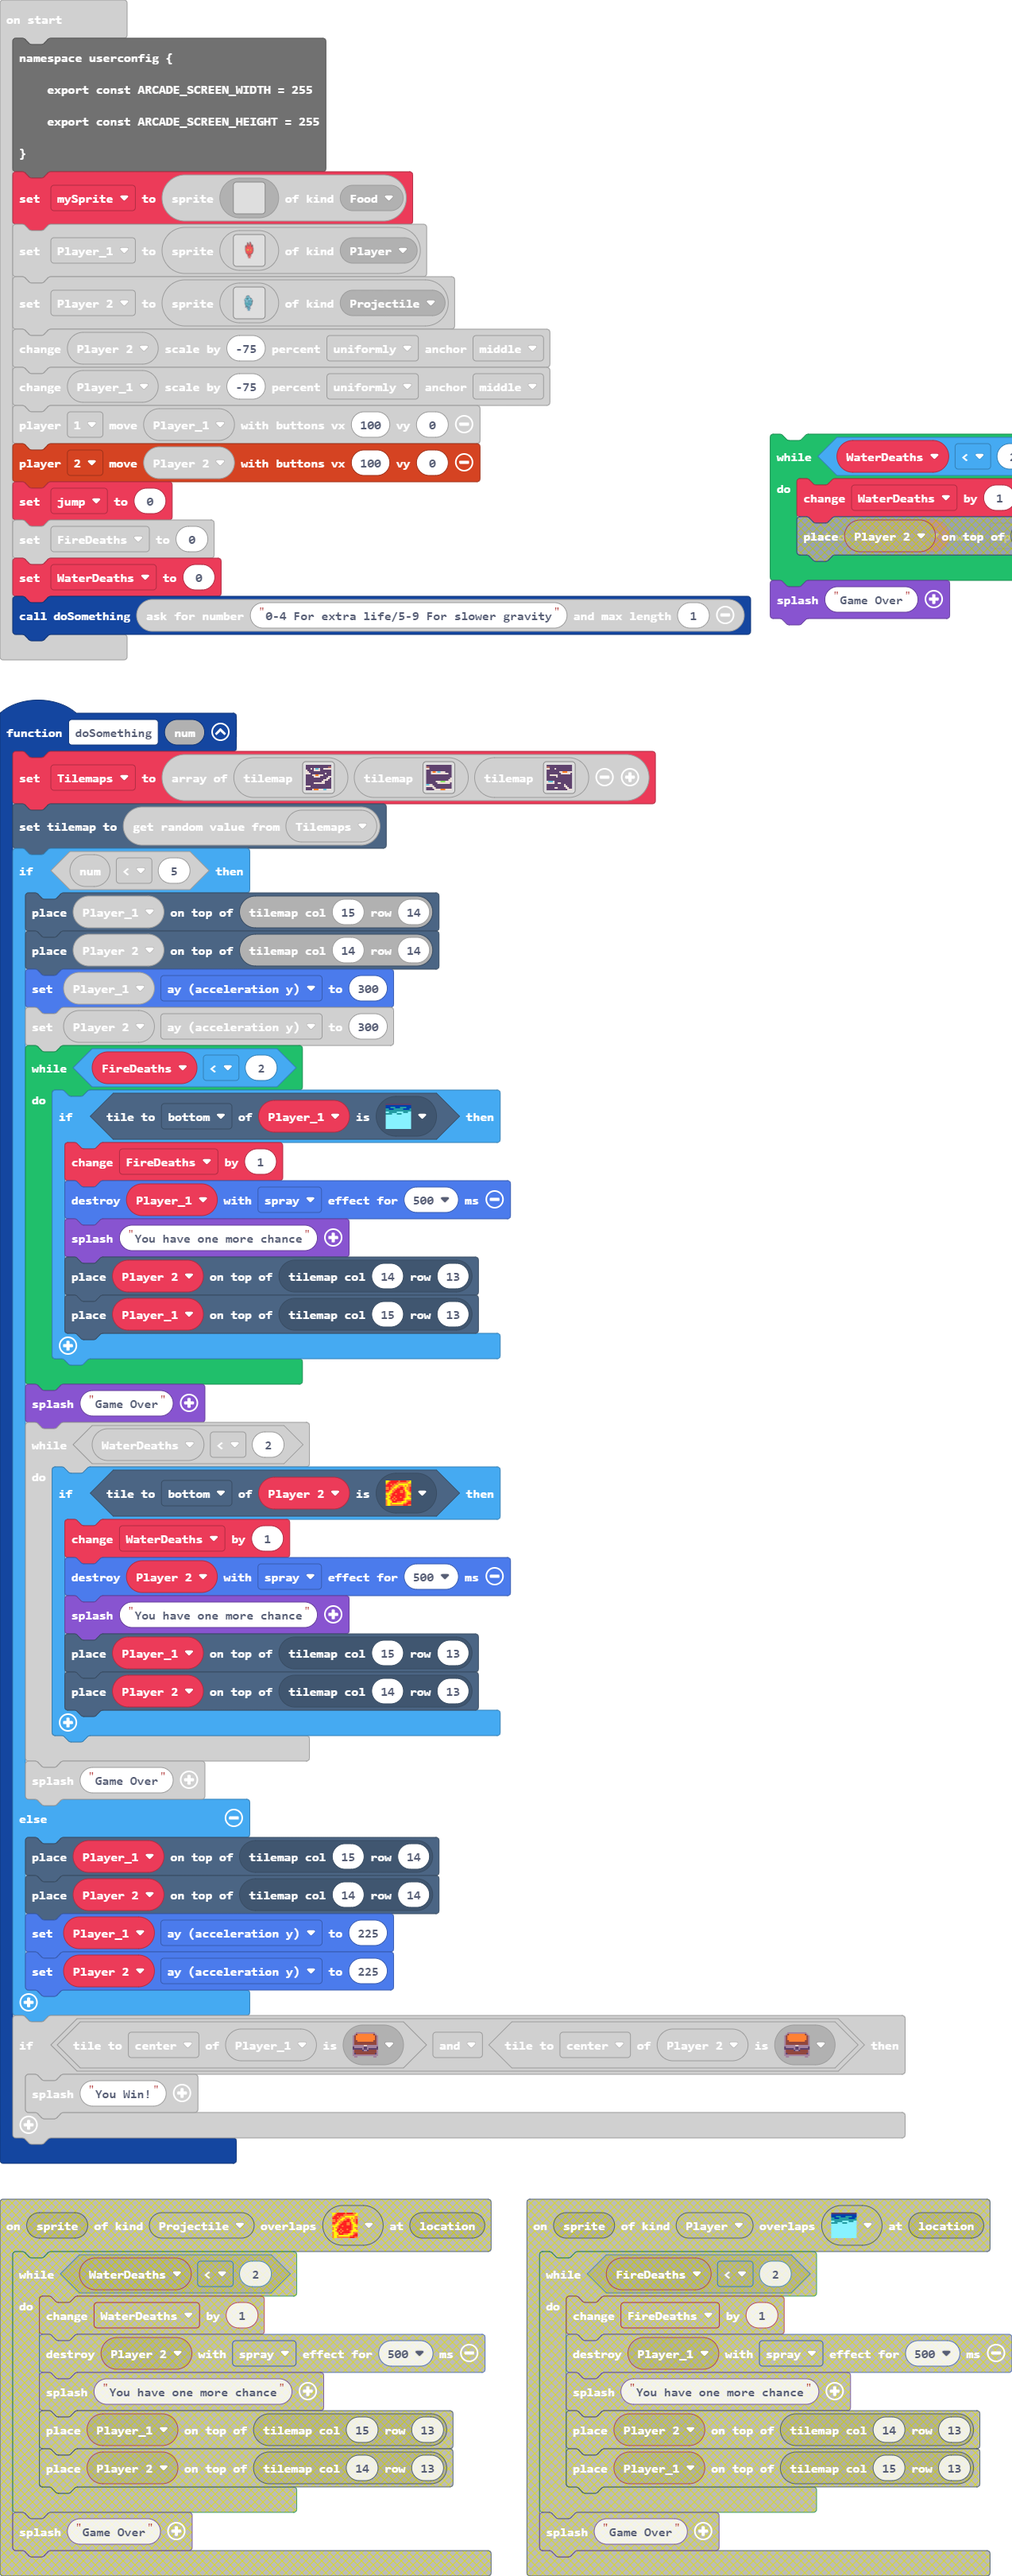
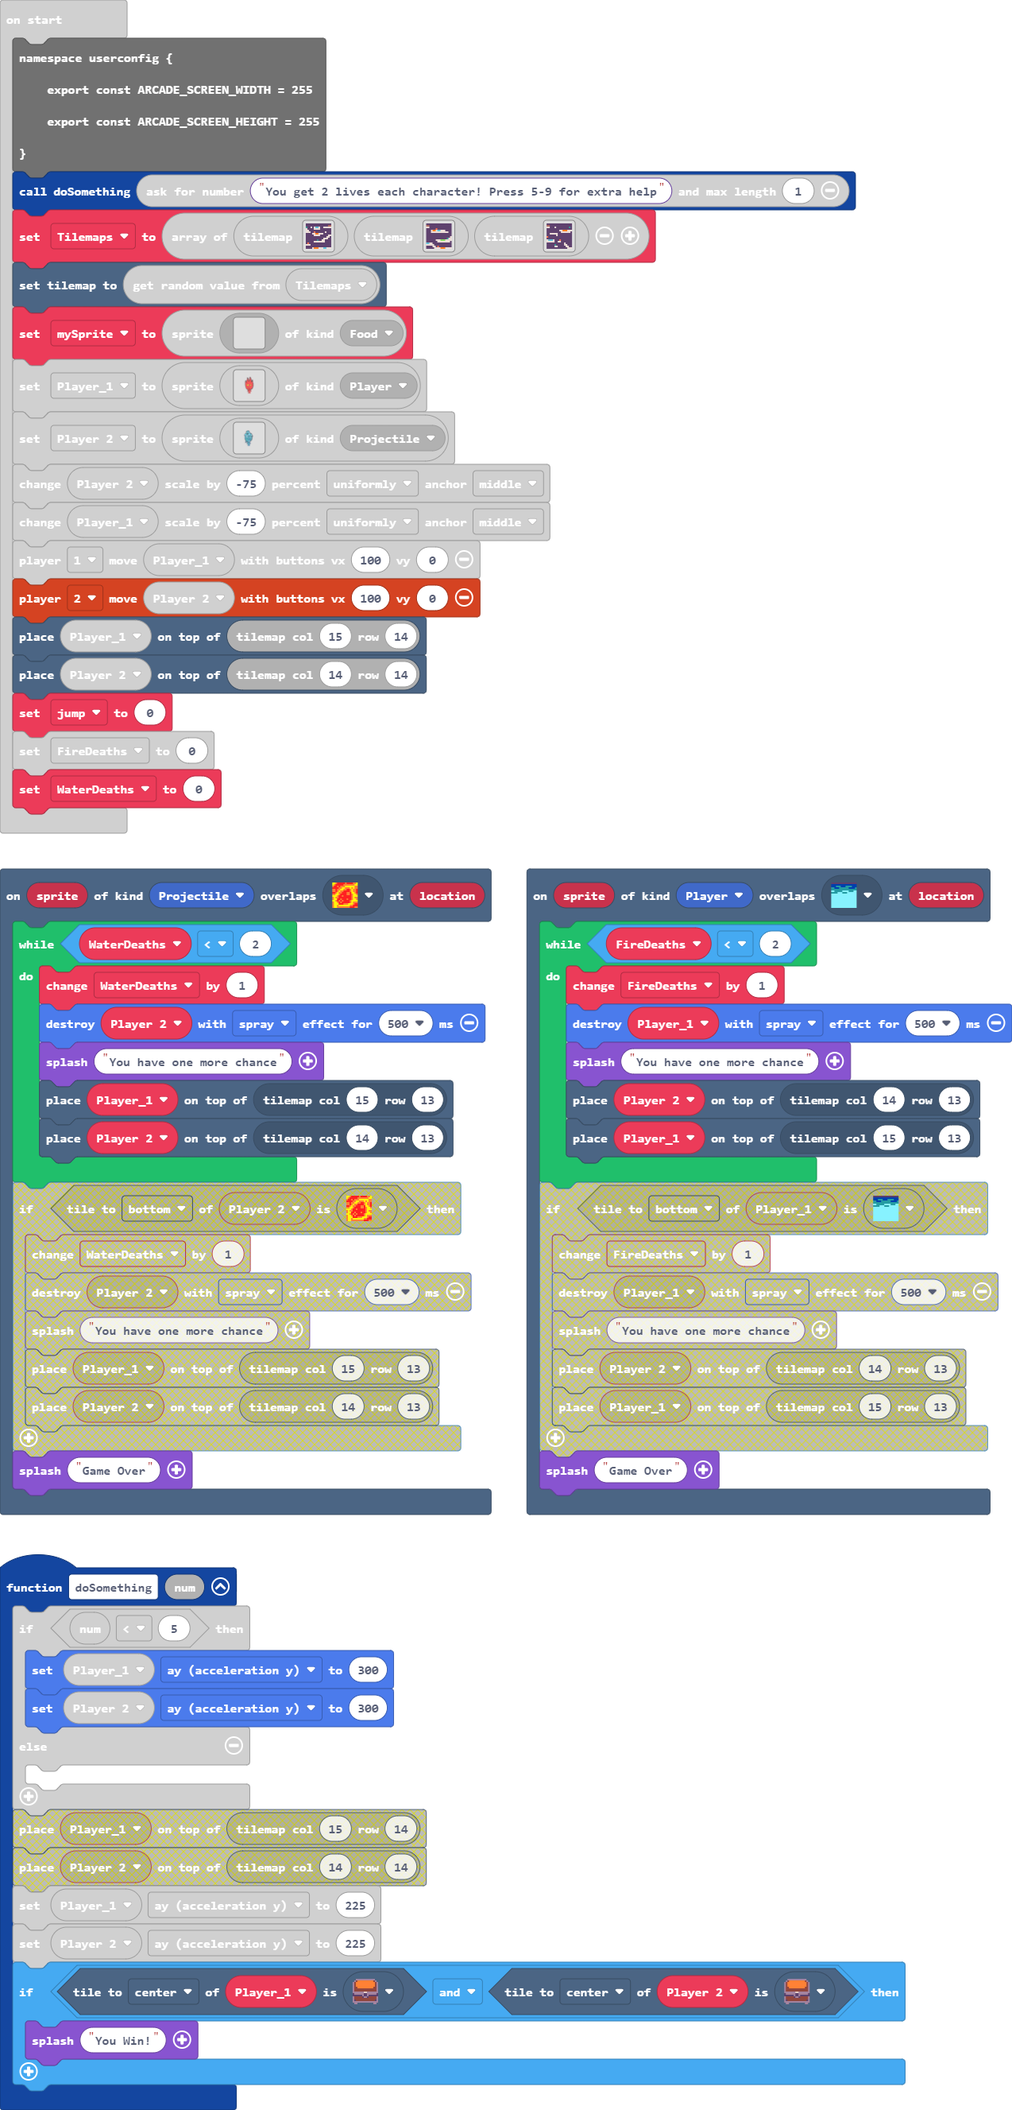
Update main.blocks, main.ts, tilemap.g.jres, tilemap.g.ts

diff --git a/tilemap.g.ts b/tilemap.g.ts
@@ -185,63 +185,6 @@ namespace myTiles {
 . . . . . . . . . . . . . . . . 
 . . . . . . . . . . . . . . . . 
 `, [], -Infinity);
-            case "level11":
-            case "level11":return tiles.createTilemap(hex`1000100001010101010101010101010101010101060601010101010101010101010101010202030301020101010101010101010101010101010101010101010101010101010101010101010102020404040202020101010101010101010202020202020101010202020202010101010101010101010103030101020101010101010101010101010101010101010101010101010101010101010101010101010101010101020505050201010101010101010101010202020202010102020101010101010101010101010101030101010201010101010101010101010101010102020101010101010101020201010101010202010101010101010101010101010101020202`, img`
-. . . . . . . . . . . . . . . . 
-. . . . . . . . . . . . . . . . 
-2 2 . . . 2 . . . . . . . . . . 
-. . . . . . . . . . . . . . . . 
-. . . . . . . . 2 2 . . . 2 2 2 
-. . . . . . . . . 2 2 2 2 2 2 . 
-. . 2 2 2 2 2 . . . . . . . . . 
-. . . . . . 2 . . . . . . . . . 
-. . . . . . . . . . . . . . . . 
-. . . . . . . . . . . . . . . . 
-2 . . . 2 . . . . . . . . . . . 
-2 2 2 2 2 . . 2 2 . . . . . . . 
-. . . . . . . . . . . 2 . . . . 
-. . . . . . . . . . . 2 2 . . . 
-. . . . . 2 2 . . . . . 2 2 . . 
-. . . . . . . . . . . . . 2 2 2 
-`, [myTiles.transparency16,myTiles.tile1,sprites.builtin.brick,sprites.dungeon.darkGroundCenter,sprites.dungeon.hazardLava0,sprites.dungeon.hazardWater,sprites.dungeon.chestClosed], TileScale.Sixteen);
-            case "level3":
-            case "level3":return tiles.createTilemap(hex`1000100002020201010101010101010101010101060602010101010101010101010101010303020101010101010101010101010102020201010102010101010101010101020202030707030404030303020202010202020303030303030303030303020102020202010202020202020202020201020202020102020202020202020202020202020201020202020202020202020302020202010202020202020202020303020202020102030303050505030303030202020202020203030303030303030204040303010202020202020202020202030303030302020202020202020202020202020103030202020202020202020202020202020303030307070703030303`, img`
-. . . . . . . . . . . . . . . . 
-. . . . . . . . . . . . . . . . 
-2 2 . . . . . . . . . . . . . . 
-. . . . . . . . . . . . . . . . 
-. . . 2 . . 2 . . 2 2 2 . . . . 
-. . . 2 2 2 2 2 2 2 2 2 2 2 . . 
-. . . . . . . . . . . . . . . . 
-. . . . . . . . . . . . . . . . 
-. . . . . . . . . . . . . . . 2 
-. . . . . . . . . . . . . . 2 2 
-. . . . . . 2 2 2 . . . 2 2 2 2 
-. . . . . . . 2 2 2 2 2 2 2 2 . 
-. . 2 2 . . . . . . . . . . . . 
-2 2 2 2 2 . . . . . . . . . . . 
-. . . . 2 2 . . . . . . . . . . 
-. . . . . 2 2 2 2 . . . 2 2 2 2 
-`, [myTiles.transparency16,myTiles.tile1,sprites.dungeon.darkGroundCenter,sprites.builtin.brick,sprites.dungeon.hazardWater,sprites.builtin.field0,sprites.dungeon.chestClosed,sprites.dungeon.hazardLava0], TileScale.Sixteen);
-            case "level 1":
-            case "level 1":return tiles.createTilemap(hex`1000100001010101010101010101010101010101010101010101010101010101010105050101010201020303020101020202020202010101010202020201010101010101020201010101010101010101010101010202020101010101010101010201010101010101020204040202020101010101010101010102020202010101010102020101010101010101010101010102020101010101010101010101010202020101010101010101010101010202010101010101010101020202020202020101010101010101010101010101010101010101020202010101010101010101010101010101010101010101010101010101010101010101020404040202020303020202`, img`
-. . . . . . . . . . . . . . . . 
-. . . . . . . . . . . . . . . . 
-. . . 2 . 2 . . 2 . . 2 2 2 2 2 
-2 . . . . 2 2 2 2 . . . . . . . 
-2 2 . . . . . . . . . . . . . . 
-2 2 2 . . . . . . . . . 2 . . . 
-. . . . 2 2 . . 2 2 2 . . . . . 
-. . . . . 2 2 2 2 . . . . . 2 2 
-. . . . . . . . . . . . . 2 2 . 
-. . . . . . . . . . . 2 2 2 . . 
-. . . . . . . . . . 2 2 . . . . 
-. . . . . 2 2 2 2 2 2 2 . . . . 
-. . . . . . . . . . . . . . . . 
-2 2 2 . . . . . . . . . . . . . 
-. . . . . . . . . . . . . . . . 
-. . . . 2 . . . 2 2 2 . . 2 2 2 
-`, [myTiles.transparency16,sprites.dungeon.darkGroundCenter,sprites.builtin.brick,sprites.dungeon.hazardWater,sprites.dungeon.hazardLava0,sprites.dungeon.chestClosed], TileScale.Sixteen);
             case "level12":
             case "level12":return tiles.createTilemap(hex`1000100000000000000000000000000000000000000000000000000000000000000000000000000000000000000000000000000000000000000000000000000000000000000000000000000000000000000000000000000000000000000000000000000000000000000000000000000000000000000000000000000000000000000000000000000000000000000000000000000000000000000000000000000000000000000000000000000000000000000000000000000000000000000000000000000000000000000000000000000000000000000000000000000000000000000000000000000000000000000000000000000000000000000000000000000000000000`, img`
 . . . . . . . . . . . . . . . . 
@@ -356,6 +299,63 @@ namespace myTiles {
 . . . . . . . . . . . . . . . . 
 . . . . . . . . . . . . . . . . 
 `, [myTiles.transparency16], TileScale.Sixteen);
+            case "level11":
+            case "level11":return tiles.createTilemap(hex`1000100001010101010101010101010101010101060601010101010101010101010101010202030301020101010101010101080101010101010101010101010101010101010101010101010102020404040202020101010101010101010202020202020101010202020202010101010101010101010103030101020101010101010101010701010101010101010101010101010101010101010101010101010101010101020505050201010107010101010101010202020202010102020101010101010101010101010101030101010201010101010101010108010101010102020101010101010101020201010101010202010101010101010101010101010101020202`, img`
+. . . . . . . . . . . . . . . . 
+. . . . . . . . . . . . . . . . 
+2 2 . . . 2 . . . . . . . . . . 
+. . . . . . . . . . . . . . . . 
+. . . . . . . . 2 2 . . . 2 2 2 
+. . . . . . . . . 2 2 2 2 2 2 . 
+. . 2 2 2 2 2 . . . . . . . . . 
+. . . . . . 2 . . . . . . . . . 
+. . . . . . . . . . . . . . . . 
+. . . . . . . . . . . . . . . . 
+2 . . . 2 . . . . . . . . . . . 
+2 2 2 2 2 . . 2 2 . . . . . . . 
+. . . . . . . . . . . 2 . . . . 
+. . . . . . . . . . . 2 2 . . . 
+. . . . . 2 2 . . . . . 2 2 . . 
+. . . . . . . . . . . . . 2 2 2 
+`, [myTiles.transparency16,myTiles.tile1,sprites.builtin.brick,sprites.dungeon.darkGroundCenter,sprites.dungeon.hazardLava0,sprites.dungeon.hazardWater,sprites.dungeon.chestClosed,sprites.dungeon.collectibleRedCrystal,sprites.dungeon.collectibleBlueCrystal], TileScale.Sixteen);
+            case "level3":
+            case "level3":return tiles.createTilemap(hex`1000100002020201010101010101010101010101060602010101010101010101010101010303020101010101010101010101010102020201010108010101010101010101020202030707030404030303020202010202020303030303030303030303020102020202010202020202020202020201020202020102020202020202020202020202020201020202020202020202020302020202010202020202020202090303020202020102030303050505030303030202020202020203030303030303030204040303010202020202020202020202030303030302020202020202020202020202020103030208020202020202020202020202020303030307070703030303`, img`
+. . . . . . . . . . . . . . . . 
+. . . . . . . . . . . . . . . . 
+2 2 . . . . . . . . . . . . . . 
+. . . . . . . . . . . . . . . . 
+. . . 2 . . 2 . . 2 2 2 . . . . 
+. . . 2 2 2 2 2 2 2 2 2 2 2 . . 
+. . . . . . . . . . . . . . . . 
+. . . . . . . . . . . . . . . . 
+. . . . . . . . . . . . . . . 2 
+. . . . . . . . . . . . . . 2 2 
+. . . . . . 2 2 2 . . . 2 2 2 2 
+. . . . . . . 2 2 2 2 2 2 2 2 . 
+. . 2 2 . . . . . . . . . . . . 
+2 2 2 2 2 . . . . . . . . . . . 
+. . . . 2 2 . . . . . . . . . . 
+. . . . . 2 2 2 2 . . . 2 2 2 2 
+`, [myTiles.transparency16,myTiles.tile1,sprites.dungeon.darkGroundCenter,sprites.builtin.brick,sprites.dungeon.hazardWater,sprites.builtin.field0,sprites.dungeon.chestClosed,sprites.dungeon.hazardLava0,sprites.dungeon.collectibleRedCrystal,sprites.dungeon.collectibleBlueCrystal], TileScale.Sixteen);
+            case "level 1":
+            case "level 1":return tiles.createTilemap(hex`1000100001010101010101010101010101010101010101010101010101010101010105050701010201020303020101020202020202010101010202020201010101010101020201010101010101010101010101010202020101060101010101010201010101010101020204040202020101010101010101010102020202010101010102020101010101010101010101010102020101010101010101010101010202020101010101010101010701010202010101010101010101020202020202020101010101060101010101010101010101010101020202010101010101010101010101010101010101010101010101010101010101010101020404040202020303020202`, img`
+. . . . . . . . . . . . . . . . 
+. . . . . . . . . . . . . . . . 
+. . . 2 . 2 . . 2 . . 2 2 2 2 2 
+2 . . . . 2 2 2 2 . . . . . . . 
+2 2 . . . . . . . . . . . . . . 
+2 2 2 . . . . . . . . . 2 . . . 
+. . . . 2 2 . . 2 2 2 . . . . . 
+. . . . . 2 2 2 2 . . . . . 2 2 
+. . . . . . . . . . . . . 2 2 . 
+. . . . . . . . . . . 2 2 2 . . 
+. . . . . . . . . . 2 2 . . . . 
+. . . . . 2 2 2 2 2 2 2 . . . . 
+. . . . . . . . . . . . . . . . 
+2 2 2 . . . . . . . . . . . . . 
+. . . . . . . . . . . . . . . . 
+. . . . 2 . . . 2 2 2 . . 2 2 2 
+`, [myTiles.transparency16,sprites.dungeon.darkGroundCenter,sprites.builtin.brick,sprites.dungeon.hazardWater,sprites.dungeon.hazardLava0,sprites.dungeon.chestClosed,sprites.dungeon.collectibleRedCrystal,sprites.dungeon.collectibleBlueCrystal], TileScale.Sixteen);
         }
         return null;
     })

diff --git a/main.ts b/main.ts
@@ -17,6 +17,16 @@ scene.onOverlapTile(SpriteKind.Player, sprites.builtin.field0, function (sprite,
     tiles.placeOnTile(Player_1, tiles.getTileLocation(15, 14))
     tiles.placeOnTile(Player_2, tiles.getTileLocation(14, 14))
 })
+scene.onOverlapTile(SpriteKind.Projectile, sprites.dungeon.hazardLava0, function (sprite, location) {
+    while (WaterDeaths < 2) {
+        WaterDeaths += 1
+        sprites.destroy(Player_2, effects.spray, 500)
+        game.splash("You have one more chance")
+        tiles.placeOnTile(Player_1, tiles.getTileLocation(15, 13))
+        tiles.placeOnTile(Player_2, tiles.getTileLocation(14, 13))
+    }
+    game.splash("Game Over")
+})
 controller.A.onEvent(ControllerButtonEvent.Pressed, function () {
     if (jump < 2) {
         jump += 1
@@ -29,36 +39,10 @@ scene.onOverlapTile(SpriteKind.Projectile, sprites.builtin.field0, function (spr
     tiles.placeOnTile(Player_2, tiles.getTileLocation(14, 14))
 })
 function doSomething (num: number) {
-    Tilemaps = [tilemap`level 1`, tilemap`level3`, tilemap`level11`]
-    tiles.setCurrentTilemap(Tilemaps._pickRandom())
     if (num < 5) {
-        tiles.placeOnTile(Player_1, tiles.getTileLocation(15, 14))
-        tiles.placeOnTile(Player_2, tiles.getTileLocation(14, 14))
         Player_1.ay = 300
         Player_2.ay = 300
-        while (FireDeaths < 2) {
-            if (Player_1.tileKindAt(TileDirection.Bottom, sprites.dungeon.hazardWater)) {
-                FireDeaths += 1
-                sprites.destroy(Player_1, effects.spray, 500)
-                game.splash("You have one more chance")
-                tiles.placeOnTile(Player_2, tiles.getTileLocation(14, 13))
-                tiles.placeOnTile(Player_1, tiles.getTileLocation(15, 13))
-            }
-        }
-        game.splash("Game Over")
-        while (WaterDeaths < 2) {
-            if (Player_2.tileKindAt(TileDirection.Bottom, sprites.dungeon.hazardLava0)) {
-                WaterDeaths += 1
-                sprites.destroy(Player_2, effects.spray, 500)
-                game.splash("You have one more chance")
-                tiles.placeOnTile(Player_1, tiles.getTileLocation(15, 13))
-                tiles.placeOnTile(Player_2, tiles.getTileLocation(14, 13))
-            }
-        }
-        game.splash("Game Over")
     } else {
-        tiles.placeOnTile(Player_1, tiles.getTileLocation(15, 14))
-        tiles.placeOnTile(Player_2, tiles.getTileLocation(14, 14))
         Player_1.ay = 225
         Player_2.ay = 225
     }
@@ -66,6 +50,16 @@ function doSomething (num: number) {
         game.splash("You Win!")
     }
 }
+scene.onOverlapTile(SpriteKind.Player, sprites.dungeon.hazardWater, function (sprite, location) {
+    while (FireDeaths < 2) {
+        FireDeaths += 1
+        sprites.destroy(Player_1, effects.spray, 500)
+        game.splash("You have one more chance")
+        tiles.placeOnTile(Player_2, tiles.getTileLocation(14, 13))
+        tiles.placeOnTile(Player_1, tiles.getTileLocation(15, 13))
+    }
+    game.splash("Game Over")
+})
 scene.onHitWall(SpriteKind.Projectile, function (sprite, location) {
     if (!(Player_2.isHittingTile(CollisionDirection.Top))) {
         jump = 0
@@ -74,7 +68,6 @@ scene.onHitWall(SpriteKind.Projectile, function (sprite, location) {
         Player_2.vy = 0
     }
 })
-let Tilemaps: tiles.TileMapData[] = []
 let WaterDeaths = 0
 let FireDeaths = 0
 let jump = 0
@@ -84,6 +77,9 @@ namespace userconfig {
     export const ARCADE_SCREEN_WIDTH = 255
     export const ARCADE_SCREEN_HEIGHT = 255
 }
+doSomething(game.askForNumber("You get 2 lives each character! Press 5-9 for extra help", 1))
+let Tilemaps = [tilemap`level 1`, tilemap`level3`, tilemap`level11`]
+tiles.setCurrentTilemap(Tilemaps._pickRandom())
 let mySprite = sprites.create(img`
     . . . . . . . . . . . . . . . . 
     . . . . . . . . . . . . . . . . 
@@ -108,10 +104,11 @@ scaling.scaleByPercent(Player_2, -75, ScaleDirection.Uniformly, ScaleAnchor.Midd
 scaling.scaleByPercent(Player_1, -75, ScaleDirection.Uniformly, ScaleAnchor.Middle)
 controller.player1.moveSprite(Player_1, 100, 0)
 controller.player2.moveSprite(Player_2, 100, 0)
+tiles.placeOnTile(Player_1, tiles.getTileLocation(15, 14))
+tiles.placeOnTile(Player_2, tiles.getTileLocation(14, 14))
 jump = 0
 FireDeaths = 0
 WaterDeaths = 0
-doSomething(game.askForNumber("0-4 For extra life/5-9 For slower gravity", 1))
 game.onUpdate(function () {
     mySprite.setPosition((Player_1.x + Player_2.x) / 2, (Player_1.y + Player_2.y) / 2)
     scene.cameraFollowSprite(mySprite)
